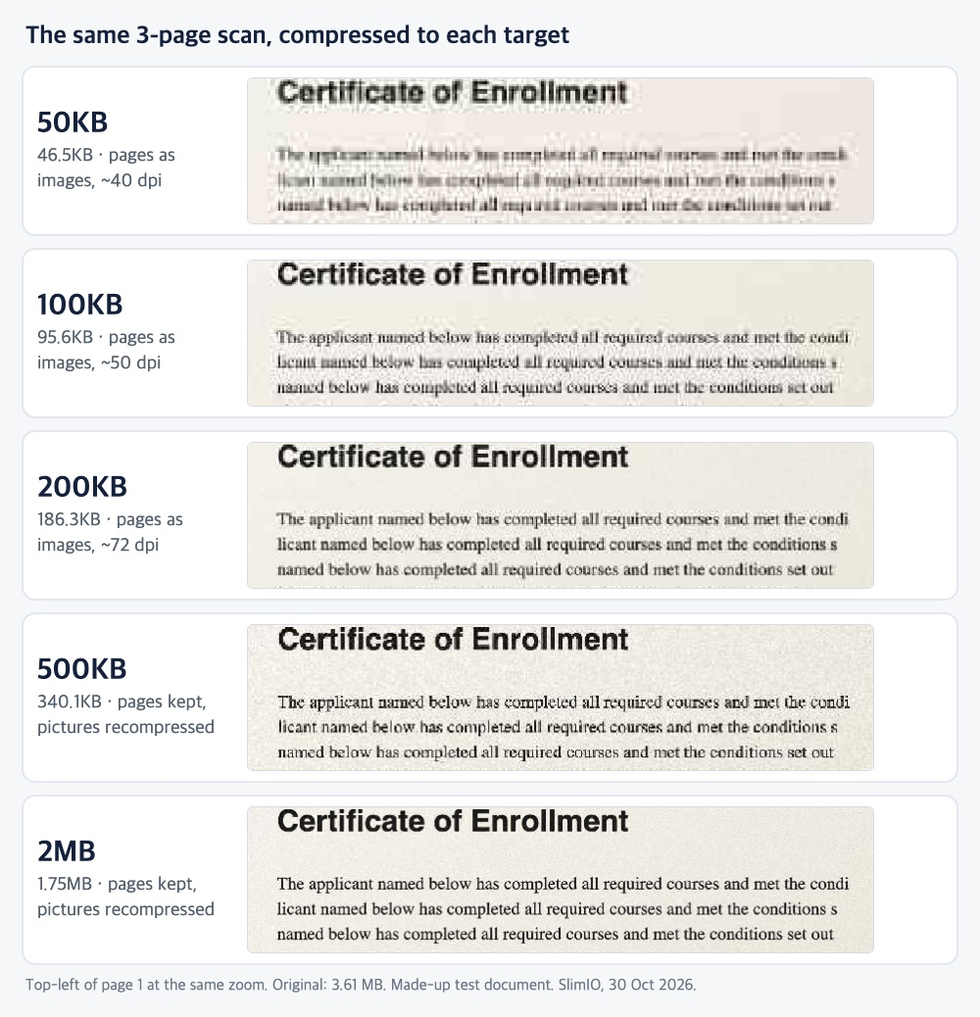
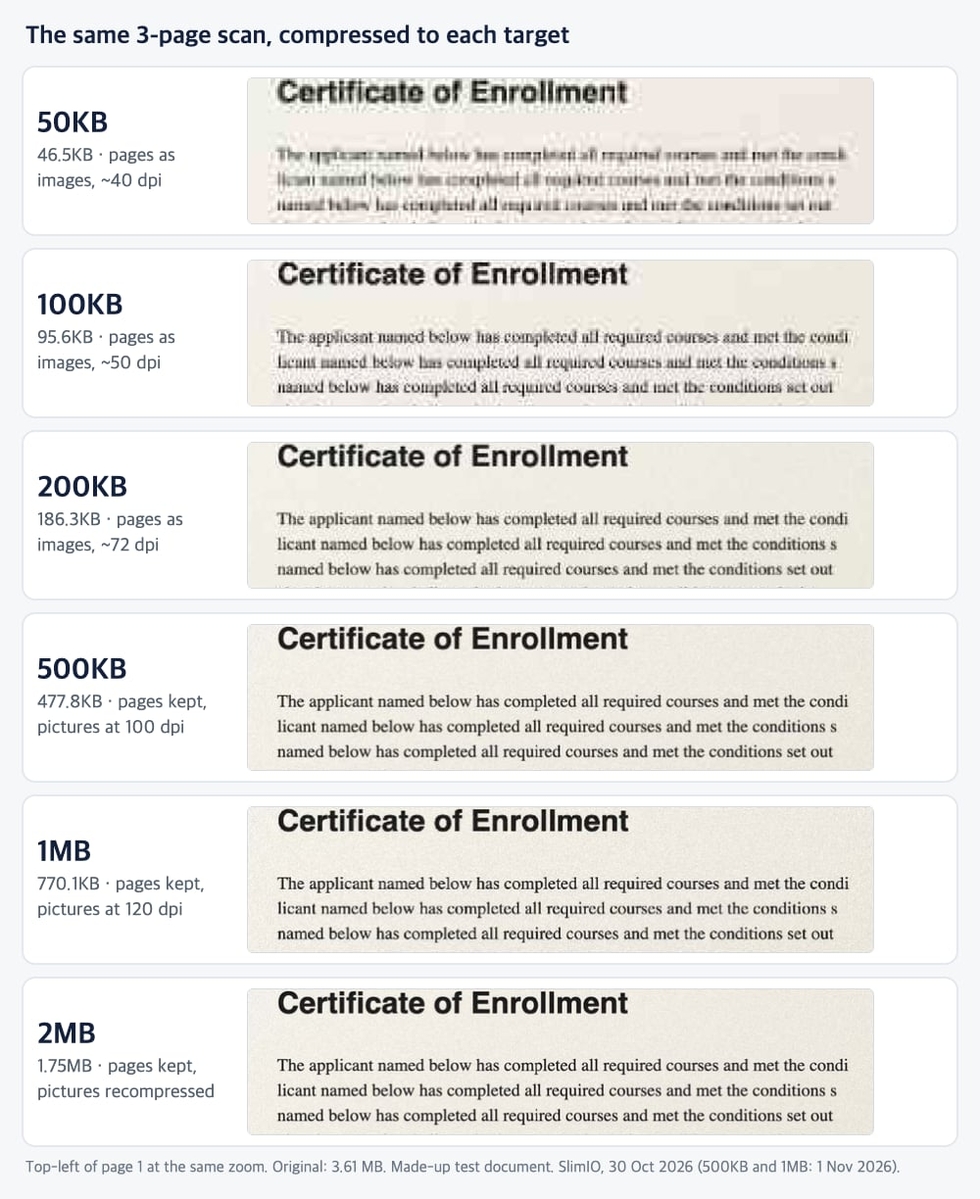
Size test, size pages, about: 500KB and 1MB measured again after the server steps fix
The same 3-page scan (3,781,587 bytes) through the real pages on the new server code:
500KB 340.1KB -> 477.8KB (pages kept, pictures at 100dpi), 1MB 751.6KB of page images ->
770.1KB (pages kept, 120dpi); 50KB-300KB and 2MB unchanged. measured.json rows can carry
their own date; the guide (en, ko) explains what changed on 1 November; size-compare.jpg
gets a 1MB row, crops scaled down from 200dpi renders. HANDOFF 4-1: what to measure on the
live site after the deploy (Tistory T20, T25, the mail guide).

diff --git a/public/ko/guides/pdf-size-test.html b/public/ko/guides/pdf-size-test.html
@@ -25,7 +25,7 @@
   "headline": "스캔 PDF 하나를 50KB·100KB·200KB·300KB·500KB·1MB·2MB로 줄여 봤어요: 용량마다 이렇게 달라요",
   "description": "휴대폰으로 스캔한 3쪽 PDF(3.61MB) 하나를 같은 도구로 일곱 가지 용량에 맞춰 봤어요. 50KB, 100KB, 200KB, 300KB, 500KB, 1MB, 2MB에서 결과 용량과 쪽이 어떻게 바뀌었는지, 글씨가 얼마나 읽히는지 정리했어요.",
   "datePublished": "2026-10-30",
-  "dateModified": "2026-10-30",
+  "dateModified": "2026-11-01",
   "inLanguage": "ko",
   "author": {
     "@type": "Organization",
@@ -85,7 +85,7 @@
       "name": "500KB 결과가 300KB 결과보다 선명했던 이유가 뭐예요?",
       "acceptedAnswer": {
         "@type": "Answer",
-        "text": "500KB에서는 도구가 3쪽을 그대로 두고 안의 그림만 다시 압축할 수 있어서(340.1KB) 해상도를 낮춘 쪽이 없어요. 300KB에서는 쪽을 약 90dpi 이미지로 바꿔야 했어요. 어느 방법이 쓰이는지는 파일마다 달라요."
+        "text": "500KB에서는 도구가 3쪽을 그대로 두고 안의 그림만 100dpi로 줄일 수 있어서(477.8KB) 이미지로 바꾼 쪽이 없어요. 300KB에서는 쪽을 약 90dpi 이미지로 바꿔야 했어요. 어느 방법이 쓰이는지는 파일마다 달라요."
       }
     },
     {
@@ -124,8 +124,8 @@
 <main class="content article">
       <p class="crumbs"><a href="/ko/">SlimIO</a> › <a href="/ko/guides/">가이드</a></p>
       <h1>스캔 PDF 하나를 50KB·100KB·200KB·300KB·500KB·1MB·2MB로 줄여 봤어요: 용량마다 이렇게 달라요</h1>
-      <p class="byline">SlimIO 작성 · 업데이트 <time datetime="2026-10-30">2026년 10월 30일</time> · 4 분 분량</p>
-<p>용량 제한은 숫자지만, 그 숫자에서 나오는 건 그림이에요. 그게 어떤 모습인지 보려고 가상의 서류 하나, <b>휴대폰으로 스캔한 모양의 3쪽 PDF(3.61MB)</b>를 2026년 10월 30일에 SlimIO의 크기 페이지마다 넣어 봤어요. 파일을 넣고, 줄이기를 누르고, 받는 과정 그대로예요. <b>50KB, 100KB, 200KB, 300KB, 500KB, 1MB, 2MB</b>에서 나온 결과를 정리했어요.</p>
+      <p class="byline">SlimIO 작성 · 업데이트 <time datetime="2026-11-01">2026년 11월 1일</time> · 4 분 분량</p>
+<p>용량 제한은 숫자지만, 그 숫자에서 나오는 건 그림이에요. 그게 어떤 모습인지 보려고 가상의 서류 하나, <b>휴대폰으로 스캔한 모양의 3쪽 PDF(3.61MB)</b>를 2026년 10월 30일에 SlimIO의 크기 페이지마다 넣어 봤어요. 파일을 넣고, 줄이기를 누르고, 받는 과정 그대로예요. <b>50KB, 100KB, 200KB, 300KB, 500KB, 1MB, 2MB</b>에서 나온 결과를 정리했어요. 500KB와 1MB는 도구가 용량을 맞추는 단계를 고친 뒤 2026년 11월 1일에 같은 파일로 다시 쟀어요(아래에 설명).</p>
       <p class="cta-top"><a class="cta-btn" href="/ko/" data-umami-event="guide-cta" data-umami-event-pos="top" data-umami-event-guide="ko/pdf-size-test">PDF 용량 줄이기 →</a><span>용량을 고르고 파일을 넣으면 받기 전에 결과 용량이 보여요. 무료, 회원가입 없어요.</span></p>
 
       <h2>한눈에 보는 결과</h2>
@@ -135,13 +135,13 @@
           <tr><td><b>100KB</b></td><td>95.6KB</td><td>31.9KB</td><td>쪽을 이미지로 바꿈, 약 50dpi</td><td>읽을 수 있지만 조금 흐림</td></tr>
           <tr><td><b>200KB</b></td><td>186.3KB</td><td>62.1KB</td><td>쪽을 이미지로 바꿈, 약 72dpi</td><td>선명</td></tr>
           <tr><td><b>300KB</b></td><td>280.2KB</td><td>93.4KB</td><td>쪽을 이미지로 바꿈, 약 90dpi</td><td>선명</td></tr>
-          <tr><td><b>500KB</b></td><td>340.1KB</td><td>113.4KB</td><td>쪽은 그대로, 안의 그림만 다시 압축</td><td>아주 선명</td></tr>
-          <tr><td><b>1MB</b></td><td>751.6KB</td><td>250.5KB</td><td>쪽을 이미지로 바꿈, 약 108dpi</td><td>읽을 수 있지만 가장자리가 거침</td></tr>
+          <tr><td><b>500KB</b></td><td>477.8KB</td><td>159.3KB</td><td>쪽은 그대로, 안의 그림만 100dpi로 다시 압축</td><td>아주 선명</td></tr>
+          <tr><td><b>1MB</b></td><td>770.1KB</td><td>256.7KB</td><td>쪽은 그대로, 안의 그림만 120dpi로 다시 압축</td><td>아주 선명</td></tr>
           <tr><td><b>2MB</b></td><td>1.75MB</td><td>0.58MB</td><td>쪽은 그대로, 안의 그림만 다시 압축</td><td>아주 선명</td></tr>
       </table></div>
       <figure>
-          <img src="/img/size-compare.jpg" width="1000" height="1038" loading="lazy" alt="같은 스캔을 50KB, 100KB, 200KB, 500KB, 2MB로 줄인 뒤 1쪽 왼쪽 위를 잘라 비교한 모습: 50KB는 글씨가 뭉개지고 100KB는 조금 흐리며 200KB 이상은 선명해요" />
-          <figcaption>같은 1쪽 부분을 다섯 가지 목표에서 잘라 본 모습이에요. 50KB는 본문이 번지고, 200KB부터는 선명해요. (그림 속 글씨는 영어예요.)</figcaption>
+          <img src="/img/size-compare.jpg" width="1000" height="1224" loading="lazy" alt="같은 스캔을 50KB, 100KB, 200KB, 500KB, 1MB, 2MB로 줄인 뒤 1쪽 왼쪽 위를 잘라 비교한 모습: 50KB는 글씨가 뭉개지고 100KB는 조금 흐리며 200KB 이상은 선명해요" />
+          <figcaption>같은 1쪽 부분을 여섯 가지 목표에서 잘라 본 모습이에요. 50KB는 본문이 번지고, 200KB부터는 선명해요. (그림 속 글씨는 영어예요.)</figcaption>
       </figure>
 
       <h2>숫자가 말해 주는 것</h2>
@@ -150,9 +150,9 @@
       <h3>100KB~300KB부터 스캔을 쓸 만해져요</h3>
       <p>100KB는 한 쪽에 32KB쯤이라 본문이 읽히지만 조금 흐렸어요. 200KB(한 쪽에 62KB)에서는 선명했고 300KB도 깨끗했어요. 서식이 몇 쪽을 받고 200KB 이상을 준다면 3쪽을 다 보내도 되고, 100KB가 한도라면 1~2쪽으로 줄이세요.</p>
       <h3>500KB부터는 쪽을 다시 만들지 않아요</h3>
-      <p>500KB와 2MB에서는 결과가 한도보다 작았어요. SlimIO가 쪽을 그대로 두고 안의 그림만 다시 압축할 수 있었기 때문이에요. 해상도를 낮춘 쪽이 없어서 300KB 결과보다 겨우 60KB 큰 파일인데도 더 선명했어요. 2MB 결과(1.75MB)는 원본의 절반쯤인데 눈에 띄는 손실이 없어요.</p>
-      <h3>1MB는 다른 길로 갔어요</h3>
-      <p>같은 파일이 1MB에서는 그 부드러운 방법을 타지 않았어요. 쪽을 약 108dpi 이미지로 바꿔서 751.6KB가 됐고, 글씨는 읽히지만 500KB 결과보다 조금 거칠어요. 나온 그대로 적었어요. 어떤 방법이 쓰일지는 파일마다 달라서, 줄이기 버튼 아래 결과 상자에 쪽을 그대로 뒀는지 이미지로 바꿨는지 항상 표시돼요.</p>
+      <p>500KB, 1MB, 2MB에서는 SlimIO가 쪽을 그대로 두고 안의 그림만 줄일 수 있었어요. 500KB에서는 100dpi, 1MB에서는 120dpi예요. 이미지로 바꾼 쪽이 없어서 300KB 결과보다 글씨가 깔끔하고, 한도가 클수록 스캔을 더 많이 살려요. 2MB 결과(1.75MB)는 원본의 절반쯤인데 눈에 띄는 손실이 없어요.</p>
+      <h3>11월 1일에 고친 것</h3>
+      <p>10월 30일 첫 시험에서 500KB는 340.1KB로 끝났어요. 그때 도구는 1MB보다 작은 목표에서 바로 72dpi로 줄여서, 100dpi도 들어가는데 글자 가장자리가 계단처럼 거칠었어요. 1MB에서는 반대였어요. 첫 단계에서 이 파일의 200dpi 그림이 그대로 남아 너무 컸고, 더 낮은 해상도를 해 보지 않고 쪽을 약 108dpi 이미지로 바꿔서 751.6KB가 됐어요. 그래서 1MB가 500KB보다 거칠었어요. 지금은 서버가 쪽을 이미지로 바꾸기 전에 150, 120, 100dpi를 차례로 해 보고, 위 표는 같은 파일을 다시 넣은 결과예요. 어떤 방법이 쓰일지는 여전히 파일마다 달라서, 줄이기 버튼 아래 결과 상자에 쪽을 그대로 뒀는지 이미지로 바꿨는지 항상 표시돼요.</p>
 
       <h2>내 스캔에 맞는 용량 고르기</h2>
       <p>'한 쪽당' 열은 대략의 기준일 뿐, 약속은 아니에요.</p>
@@ -166,7 +166,7 @@
       <h2>시험 방법과 한계</h2>
       <ul>
           <li><b>파일:</b> 제목, 본문 줄, 표, 도장, 고르지 않은 조명, 센서 잡티를 넣은 쪽 이미지 3장(각 약 1654×2339픽셀)을 PDF 하나(3,781,587바이트, 3.61MB)로 묶었어요. 가상의 서류라서 실제 사람의 서류는 쓰지 않았어요.</li>
-          <li><b>실행:</b> 크기 페이지마다 크롬에서 실제 도구를 열고, 파일을 넣고, 줄이기를 한 번 누르고, 받은 파일의 용량을 쟀어요. 용량은 도구가 보여 주는 방식대로 1KB=1,024바이트로 적었어요.</li>
+          <li><b>실행:</b> 크기 페이지마다 크롬에서 실제 도구를 열고, 파일을 넣고, 줄이기를 한 번 누르고, 받은 파일의 용량을 쟀어요. 용량은 도구가 보여 주는 방식대로 1KB=1,024바이트로 적었어요. 500KB와 1MB는 2026년 11월 1일, 나머지는 10월 30일 결과예요.</li>
           <li><b>글씨 상태:</b> 같은 배율로 1쪽을 눈으로 보고 판단했고, 위 그림에서 직접 확인할 수 있어요.</li>
           <li><b>한계:</b> 파일 하나, 하루치예요. 다른 스캔이나 이후 버전의 도구에서는 숫자가 달라질 수 있어요. 정확한 KB보다 패턴을 봐 주세요.</li>
       </ul>
@@ -188,7 +188,7 @@
       </details>
       <details>
           <summary>500KB 결과가 300KB 결과보다 선명했던 이유가 뭐예요?</summary>
-          <p>500KB에서는 도구가 3쪽을 그대로 두고 안의 그림만 다시 압축할 수 있어서(340.1KB) 해상도를 낮춘 쪽이 없어요. 300KB에서는 쪽을 약 90dpi 이미지로 바꿔야 했어요. 어느 방법이 쓰이는지는 파일마다 달라요.</p>
+          <p>500KB에서는 도구가 3쪽을 그대로 두고 안의 그림만 100dpi로 줄일 수 있어서(477.8KB) 이미지로 바꾼 쪽이 없어요. 300KB에서는 쪽을 약 90dpi 이미지로 바꿔야 했어요. 어느 방법이 쓰이는지는 파일마다 달라요.</p>
       </details>
       <details>
           <summary>글씨로 만든 PDF도 같은가요?</summary>

diff --git a/public/guides/pdf-size-test.html b/public/guides/pdf-size-test.html
@@ -25,7 +25,7 @@
   "headline": "We compressed one scanned PDF to 50KB, 100KB, 200KB, 300KB, 500KB, 1MB and 2MB: what each size does",
   "description": "One 3-page phone-scan PDF (3.61 MB) run through seven size limits with the same tool. The result size, how the pages were rebuilt, and how readable the text stayed at 50KB, 100KB, 200KB, 300KB, 500KB, 1MB and 2MB.",
   "datePublished": "2026-10-30",
-  "dateModified": "2026-10-30",
+  "dateModified": "2026-11-01",
   "inLanguage": "en",
   "author": {
     "@type": "Organization",
@@ -85,7 +85,7 @@
       "name": "Why was the 500KB result sharper than the 300KB one?",
       "acceptedAnswer": {
         "@type": "Answer",
-        "text": "At 500KB the tool could keep the three pages as they were and only recompress the pictures inside (340.1 KB), so no page was rebuilt at a lower resolution. At 300KB it had to turn the pages into images at about 90 dpi. Which route a file takes depends on the file."
+        "text": "At 500KB the tool could keep the three pages as they were and only bring the pictures inside down to 100 dpi (477.8 KB), so no page was turned into an image. At 300KB it had to turn the pages into images at about 90 dpi. Which route a file takes depends on the file."
       }
     },
     {
@@ -124,8 +124,8 @@
 <main class="content article">
       <p class="crumbs"><a href="/">SlimIO</a> › <a href="/guides/">Guides</a></p>
       <h1>We compressed one scanned PDF to 50KB, 100KB, 200KB, 300KB, 500KB, 1MB and 2MB: what each size does</h1>
-      <p class="byline">By SlimIO · Updated <time datetime="2026-10-30">October 30, 2026</time> · 4 min read</p>
-<p>Every size limit sounds like a number, but what you get at that number is a picture. To see it, we took one made-up document, a <b>3-page phone-scan style PDF of 3.61 MB</b>, and ran it through each of SlimIO's size pages on 30 October 2026, the same way you would: drop the file in, click Compress, download. This page shows what came out at <b>50KB, 100KB, 200KB, 300KB, 500KB, 1MB and 2MB</b>.</p>
+      <p class="byline">By SlimIO · Updated <time datetime="2026-11-01">November 1, 2026</time> · 4 min read</p>
+<p>Every size limit sounds like a number, but what you get at that number is a picture. To see it, we took one made-up document, a <b>3-page phone-scan style PDF of 3.61 MB</b>, and ran it through each of SlimIO's size pages on 30 October 2026, the same way you would: drop the file in, click Compress, download. This page shows what came out at <b>50KB, 100KB, 200KB, 300KB, 500KB, 1MB and 2MB</b>. The 500KB and 1MB rows were measured again with the same file on 1 November 2026, after we fixed how the tool steps down (see below).</p>
       <p class="cta-top"><a class="cta-btn" href="/" data-umami-event="guide-cta" data-umami-event-pos="top" data-umami-event-guide="pdf-size-test">Compress your PDF →</a><span>Pick a size, drop the file in and see the result size before you download. Free, no signup.</span></p>
 
       <h2>The results at a glance</h2>
@@ -135,13 +135,13 @@
           <tr><td><b>100KB</b></td><td>95.6 KB</td><td>31.9 KB</td><td>Pages turned into images, about 50 dpi</td><td>Readable, a little soft</td></tr>
           <tr><td><b>200KB</b></td><td>186.3 KB</td><td>62.1 KB</td><td>Pages turned into images, about 72 dpi</td><td>Clear</td></tr>
           <tr><td><b>300KB</b></td><td>280.2 KB</td><td>93.4 KB</td><td>Pages turned into images, about 90 dpi</td><td>Clear</td></tr>
-          <tr><td><b>500KB</b></td><td>340.1 KB</td><td>113.4 KB</td><td>Pages kept, pictures recompressed</td><td>Sharp</td></tr>
-          <tr><td><b>1MB</b></td><td>751.6 KB</td><td>250.5 KB</td><td>Pages turned into images, about 108 dpi</td><td>Readable, slightly rough</td></tr>
+          <tr><td><b>500KB</b></td><td>477.8 KB</td><td>159.3 KB</td><td>Pages kept, pictures recompressed at 100 dpi</td><td>Sharp</td></tr>
+          <tr><td><b>1MB</b></td><td>770.1 KB</td><td>256.7 KB</td><td>Pages kept, pictures recompressed at 120 dpi</td><td>Sharp</td></tr>
           <tr><td><b>2MB</b></td><td>1.75 MB</td><td>0.58 MB</td><td>Pages kept, pictures recompressed</td><td>Sharp</td></tr>
       </table></div>
       <figure>
-          <img src="/img/size-compare.jpg" width="1000" height="1038" loading="lazy" alt="The top-left of page 1 of the same scan after compressing to 50KB, 100KB, 200KB, 500KB and 2MB: the 50KB text is blurred, 100KB is soft, and 200KB and above are clear" />
-          <figcaption>The same crop of page 1 at five of the targets. The 50KB body text is smudged; from 200KB it is clear.</figcaption>
+          <img src="/img/size-compare.jpg" width="1000" height="1224" loading="lazy" alt="The top-left of page 1 of the same scan after compressing to 50KB, 100KB, 200KB, 500KB, 1MB and 2MB: the 50KB text is blurred, 100KB is soft, and 200KB and above are clear" />
+          <figcaption>The same crop of page 1 at six of the targets. The 50KB body text is smudged; from 200KB it is clear.</figcaption>
       </figure>
 
       <h2>What the numbers say</h2>
@@ -149,10 +149,10 @@
       <p>At 50KB the three pages share 46.5 KB, so each gets about 15 KB. To fit, SlimIO turned every page into an image at about 40 dpi. The large heading survived, but the paragraph text smudged into grey strokes, and because the pages are now pictures, the text can no longer be selected or searched. This is why the 50KB page tells you to keep only the page the form needs: one page gets the whole 50KB.</p>
       <h3>100KB to 300KB is where scans become usable</h3>
       <p>With 32 KB a page the text at 100KB was readable but soft. At 200KB (62 KB a page) it was clear, and at 300KB it stayed clean. If a form accepts a few pages and gives you 200KB or more, you can send all three. If it caps you at 100KB, send one or two.</p>
-      <h3>Past 500KB the tool stops rebuilding the pages</h3>
-      <p>At 500KB and 2MB the result was smaller than the limit, because SlimIO could keep the pages exactly as they were and recompress only the pictures inside them. Nothing was rendered at a lower resolution, and the text looked sharper than at 300KB even though the file was only 60 KB bigger. The 2MB result, 1.75 MB, is about half the original with no visible loss.</p>
-      <h3>The 1MB result took the other route</h3>
-      <p>The same file at 1MB did not take that gentle route. The pages were turned into images at about 108 dpi, giving 751.6 KB, and the text, while readable, is a little rougher than the 500KB result. We report it as it came out. Which route a file takes depends on the file, and the result box under the button always says whether the pages were kept or turned into images.</p>
+      <h3>From 500KB the tool stops rebuilding the pages</h3>
+      <p>At 500KB, 1MB and 2MB SlimIO could keep the pages exactly as they were and shrink only the pictures inside them: to 100 dpi at 500KB, to 120 dpi at 1MB. No page was turned into an image, so the text is cleaner than at 300KB, and the bigger the limit, the more of the scan it keeps. The 2MB result, 1.75 MB, is about half the original with no visible loss.</p>
+      <h3>What we fixed on 1 November</h3>
+      <p>In the first run on 30 October, 500KB came out at 340.1 KB: below 1MB the tool went straight to 72 dpi, so the letters got blocky edges although 100 dpi would have fit. At 1MB it went the other way. Its first step left this file's 200 dpi pictures as they were, the result was too big, and the tool turned the pages into images at about 108 dpi (751.6 KB) without trying a lower resolution first, so 1MB came out rougher than 500KB. Now the server tries 150, 120 and 100 dpi before it turns pages into images, and the table above shows the same file run again. Which route a file takes still depends on the file, and the result box under the button always says whether the pages were kept or turned into images.</p>
 
       <h2>Picking a size for your own scan</h2>
       <p>Use the per-page column as a rough rule, not a promise:</p>
@@ -166,7 +166,7 @@
       <h2>How we ran the test, and its limits</h2>
       <ul>
           <li><b>The file:</b> three page images (about 1654 × 2339 pixels each, with a printed heading, text lines, a table, a stamp, uneven lighting and sensor-style noise) built into one PDF of 3,781,587 bytes (3.61 MB). The document is made up, so no real person's papers were involved.</li>
-          <li><b>The run:</b> each size page opened in Chrome against the live tool, the file added, Compress clicked once, the download measured. Sizes are shown the way the tool shows them, in KB of 1,024 bytes.</li>
+          <li><b>The run:</b> each size page opened in Chrome against the live tool, the file added, Compress clicked once, the download measured. Sizes are shown the way the tool shows them, in KB of 1,024 bytes. The 500KB and 1MB rows are from 1 November 2026, the rest from 30 October.</li>
           <li><b>How readable:</b> judged by eye on the first page, at the same zoom, as shown in the picture.</li>
           <li><b>What it is not:</b> one file, one day. A different scan, or a later version of the tool, can give different numbers. Treat the pattern as the finding, not the exact kilobytes.</li>
       </ul>
@@ -188,7 +188,7 @@
       </details>
       <details>
           <summary>Why was the 500KB result sharper than the 300KB one?</summary>
-          <p>At 500KB the tool could keep the three pages as they were and only recompress the pictures inside (340.1 KB), so no page was rebuilt at a lower resolution. At 300KB it had to turn the pages into images at about 90 dpi. Which route a file takes depends on the file.</p>
+          <p>At 500KB the tool could keep the three pages as they were and only bring the pictures inside down to 100 dpi (477.8 KB), so no page was turned into an image. At 300KB it had to turn the pages into images at about 90 dpi. Which route a file takes depends on the file.</p>
       </details>
       <details>
           <summary>Does a text PDF behave the same way?</summary>

diff --git a/content/guides/ko/pdf-size-test.html b/content/guides/ko/pdf-size-test.html
@@ -2,16 +2,16 @@
 {"title": "스캔 PDF 하나를 50KB·100KB·200KB·300KB·500KB·1MB·2MB로 줄여 봤어요: 용량마다 이렇게 달라요",
  "seo_title": "PDF 50KB·100KB·200KB·500KB·1MB로 줄이면? 같은 파일로 직접 비교",
  "desc": "휴대폰으로 스캔한 3쪽 PDF(3.61MB) 하나를 같은 도구로 일곱 가지 용량에 맞춰 봤어요. 50KB, 100KB, 200KB, 300KB, 500KB, 1MB, 2MB에서 결과 용량과 쪽이 어떻게 바뀌었는지, 글씨가 얼마나 읽히는지 정리했어요.",
- "topic": "pdf", "published": "2026-10-30", "updated": "2026-10-30", "image": "/img/size-compare.jpg",
+ "topic": "pdf", "published": "2026-10-30", "updated": "2026-11-01", "image": "/img/size-compare.jpg",
  "cta": ["/ko/", "PDF 용량 줄이기", "용량을 고르고 파일을 넣으면 받기 전에 결과 용량이 보여요. 무료, 회원가입 없어요."],
  "faq": [
   ["스캔한 서류 몇 쪽이 100KB에 들어가나요?", "이번 시험에서 100KB는 3쪽이 한 쪽에 약 32KB, 약 50dpi가 됐어요. 본문은 읽히지만 조금 흐렸어요. 1~2쪽이면 100KB도 여유 있고, 3쪽부터는 작은 글씨가 흐려지기 시작해요."],
-  ["500KB 결과가 300KB 결과보다 선명했던 이유가 뭐예요?", "500KB에서는 도구가 3쪽을 그대로 두고 안의 그림만 다시 압축할 수 있어서(340.1KB) 해상도를 낮춘 쪽이 없어요. 300KB에서는 쪽을 약 90dpi 이미지로 바꿔야 했어요. 어느 방법이 쓰이는지는 파일마다 달라요."],
+  ["500KB 결과가 300KB 결과보다 선명했던 이유가 뭐예요?", "500KB에서는 도구가 3쪽을 그대로 두고 안의 그림만 100dpi로 줄일 수 있어서(477.8KB) 이미지로 바꾼 쪽이 없어요. 300KB에서는 쪽을 약 90dpi 이미지로 바꿔야 했어요. 어느 방법이 쓰이는지는 파일마다 달라요."],
   ["글씨로 만든 PDF도 같은가요?", "똑같지는 않아요. 워드로 만든 PDF는 글자가 문자로 저장돼서 선명하고 선택도 되고 처음부터 아주 작아요. 이번 시험은 쪽마다 사진인 스캔 파일이라 가장 어려운 경우예요."],
   ["내 파일도 같은 숫자가 나오나요?", "아니에요. 숫자는 가상의 서류 하나의 결과예요. 사진이나 그림자, 컬러가 있는 스캔은 더 큰 용량이 필요해요. 볼 것은 패턴이에요. 한 쪽에 15KB쯤이면 뭉개지고, 30KB쯤이면 조금 흐리고, 60KB 넘으면 선명했어요."]
  ]}
 -->
-      <p>용량 제한은 숫자지만, 그 숫자에서 나오는 건 그림이에요. 그게 어떤 모습인지 보려고 가상의 서류 하나, <b>휴대폰으로 스캔한 모양의 3쪽 PDF(3.61MB)</b>를 2026년 10월 30일에 SlimIO의 크기 페이지마다 넣어 봤어요. 파일을 넣고, 줄이기를 누르고, 받는 과정 그대로예요. <b>50KB, 100KB, 200KB, 300KB, 500KB, 1MB, 2MB</b>에서 나온 결과를 정리했어요.</p>
+      <p>용량 제한은 숫자지만, 그 숫자에서 나오는 건 그림이에요. 그게 어떤 모습인지 보려고 가상의 서류 하나, <b>휴대폰으로 스캔한 모양의 3쪽 PDF(3.61MB)</b>를 2026년 10월 30일에 SlimIO의 크기 페이지마다 넣어 봤어요. 파일을 넣고, 줄이기를 누르고, 받는 과정 그대로예요. <b>50KB, 100KB, 200KB, 300KB, 500KB, 1MB, 2MB</b>에서 나온 결과를 정리했어요. 500KB와 1MB는 도구가 용량을 맞추는 단계를 고친 뒤 2026년 11월 1일에 같은 파일로 다시 쟀어요(아래에 설명).</p>
 
       <h2>한눈에 보는 결과</h2>
       <div class="table-wrap"><table>
@@ -20,13 +20,13 @@
           <tr><td><b>100KB</b></td><td>95.6KB</td><td>31.9KB</td><td>쪽을 이미지로 바꿈, 약 50dpi</td><td>읽을 수 있지만 조금 흐림</td></tr>
           <tr><td><b>200KB</b></td><td>186.3KB</td><td>62.1KB</td><td>쪽을 이미지로 바꿈, 약 72dpi</td><td>선명</td></tr>
           <tr><td><b>300KB</b></td><td>280.2KB</td><td>93.4KB</td><td>쪽을 이미지로 바꿈, 약 90dpi</td><td>선명</td></tr>
-          <tr><td><b>500KB</b></td><td>340.1KB</td><td>113.4KB</td><td>쪽은 그대로, 안의 그림만 다시 압축</td><td>아주 선명</td></tr>
-          <tr><td><b>1MB</b></td><td>751.6KB</td><td>250.5KB</td><td>쪽을 이미지로 바꿈, 약 108dpi</td><td>읽을 수 있지만 가장자리가 거침</td></tr>
+          <tr><td><b>500KB</b></td><td>477.8KB</td><td>159.3KB</td><td>쪽은 그대로, 안의 그림만 100dpi로 다시 압축</td><td>아주 선명</td></tr>
+          <tr><td><b>1MB</b></td><td>770.1KB</td><td>256.7KB</td><td>쪽은 그대로, 안의 그림만 120dpi로 다시 압축</td><td>아주 선명</td></tr>
           <tr><td><b>2MB</b></td><td>1.75MB</td><td>0.58MB</td><td>쪽은 그대로, 안의 그림만 다시 압축</td><td>아주 선명</td></tr>
       </table></div>
       <figure>
-          <img src="/img/size-compare.jpg" width="1000" height="1038" loading="lazy" alt="같은 스캔을 50KB, 100KB, 200KB, 500KB, 2MB로 줄인 뒤 1쪽 왼쪽 위를 잘라 비교한 모습: 50KB는 글씨가 뭉개지고 100KB는 조금 흐리며 200KB 이상은 선명해요" />
-          <figcaption>같은 1쪽 부분을 다섯 가지 목표에서 잘라 본 모습이에요. 50KB는 본문이 번지고, 200KB부터는 선명해요. (그림 속 글씨는 영어예요.)</figcaption>
+          <img src="/img/size-compare.jpg" width="1000" height="1224" loading="lazy" alt="같은 스캔을 50KB, 100KB, 200KB, 500KB, 1MB, 2MB로 줄인 뒤 1쪽 왼쪽 위를 잘라 비교한 모습: 50KB는 글씨가 뭉개지고 100KB는 조금 흐리며 200KB 이상은 선명해요" />
+          <figcaption>같은 1쪽 부분을 여섯 가지 목표에서 잘라 본 모습이에요. 50KB는 본문이 번지고, 200KB부터는 선명해요. (그림 속 글씨는 영어예요.)</figcaption>
       </figure>
 
       <h2>숫자가 말해 주는 것</h2>
@@ -35,9 +35,9 @@
       <h3>100KB~300KB부터 스캔을 쓸 만해져요</h3>
       <p>100KB는 한 쪽에 32KB쯤이라 본문이 읽히지만 조금 흐렸어요. 200KB(한 쪽에 62KB)에서는 선명했고 300KB도 깨끗했어요. 서식이 몇 쪽을 받고 200KB 이상을 준다면 3쪽을 다 보내도 되고, 100KB가 한도라면 1~2쪽으로 줄이세요.</p>
       <h3>500KB부터는 쪽을 다시 만들지 않아요</h3>
-      <p>500KB와 2MB에서는 결과가 한도보다 작았어요. SlimIO가 쪽을 그대로 두고 안의 그림만 다시 압축할 수 있었기 때문이에요. 해상도를 낮춘 쪽이 없어서 300KB 결과보다 겨우 60KB 큰 파일인데도 더 선명했어요. 2MB 결과(1.75MB)는 원본의 절반쯤인데 눈에 띄는 손실이 없어요.</p>
-      <h3>1MB는 다른 길로 갔어요</h3>
-      <p>같은 파일이 1MB에서는 그 부드러운 방법을 타지 않았어요. 쪽을 약 108dpi 이미지로 바꿔서 751.6KB가 됐고, 글씨는 읽히지만 500KB 결과보다 조금 거칠어요. 나온 그대로 적었어요. 어떤 방법이 쓰일지는 파일마다 달라서, 줄이기 버튼 아래 결과 상자에 쪽을 그대로 뒀는지 이미지로 바꿨는지 항상 표시돼요.</p>
+      <p>500KB, 1MB, 2MB에서는 SlimIO가 쪽을 그대로 두고 안의 그림만 줄일 수 있었어요. 500KB에서는 100dpi, 1MB에서는 120dpi예요. 이미지로 바꾼 쪽이 없어서 300KB 결과보다 글씨가 깔끔하고, 한도가 클수록 스캔을 더 많이 살려요. 2MB 결과(1.75MB)는 원본의 절반쯤인데 눈에 띄는 손실이 없어요.</p>
+      <h3>11월 1일에 고친 것</h3>
+      <p>10월 30일 첫 시험에서 500KB는 340.1KB로 끝났어요. 그때 도구는 1MB보다 작은 목표에서 바로 72dpi로 줄여서, 100dpi도 들어가는데 글자 가장자리가 계단처럼 거칠었어요. 1MB에서는 반대였어요. 첫 단계에서 이 파일의 200dpi 그림이 그대로 남아 너무 컸고, 더 낮은 해상도를 해 보지 않고 쪽을 약 108dpi 이미지로 바꿔서 751.6KB가 됐어요. 그래서 1MB가 500KB보다 거칠었어요. 지금은 서버가 쪽을 이미지로 바꾸기 전에 150, 120, 100dpi를 차례로 해 보고, 위 표는 같은 파일을 다시 넣은 결과예요. 어떤 방법이 쓰일지는 여전히 파일마다 달라서, 줄이기 버튼 아래 결과 상자에 쪽을 그대로 뒀는지 이미지로 바꿨는지 항상 표시돼요.</p>
 
       <h2>내 스캔에 맞는 용량 고르기</h2>
       <p>'한 쪽당' 열은 대략의 기준일 뿐, 약속은 아니에요.</p>
@@ -51,7 +51,7 @@
       <h2>시험 방법과 한계</h2>
       <ul>
           <li><b>파일:</b> 제목, 본문 줄, 표, 도장, 고르지 않은 조명, 센서 잡티를 넣은 쪽 이미지 3장(각 약 1654×2339픽셀)을 PDF 하나(3,781,587바이트, 3.61MB)로 묶었어요. 가상의 서류라서 실제 사람의 서류는 쓰지 않았어요.</li>
-          <li><b>실행:</b> 크기 페이지마다 크롬에서 실제 도구를 열고, 파일을 넣고, 줄이기를 한 번 누르고, 받은 파일의 용량을 쟀어요. 용량은 도구가 보여 주는 방식대로 1KB=1,024바이트로 적었어요.</li>
+          <li><b>실행:</b> 크기 페이지마다 크롬에서 실제 도구를 열고, 파일을 넣고, 줄이기를 한 번 누르고, 받은 파일의 용량을 쟀어요. 용량은 도구가 보여 주는 방식대로 1KB=1,024바이트로 적었어요. 500KB와 1MB는 2026년 11월 1일, 나머지는 10월 30일 결과예요.</li>
           <li><b>글씨 상태:</b> 같은 배율로 1쪽을 눈으로 보고 판단했고, 위 그림에서 직접 확인할 수 있어요.</li>
           <li><b>한계:</b> 파일 하나, 하루치예요. 다른 스캔이나 이후 버전의 도구에서는 숫자가 달라질 수 있어요. 정확한 KB보다 패턴을 봐 주세요.</li>
       </ul>

diff --git a/content/guides/en/pdf-size-test.html b/content/guides/en/pdf-size-test.html
@@ -2,16 +2,16 @@
 {"title": "We compressed one scanned PDF to 50KB, 100KB, 200KB, 300KB, 500KB, 1MB and 2MB: what each size does",
  "seo_title": "PDF to 50KB, 100KB, 200KB, 500KB, 1MB: We Tested What Each Size Does",
  "desc": "One 3-page phone-scan PDF (3.61 MB) run through seven size limits with the same tool. The result size, how the pages were rebuilt, and how readable the text stayed at 50KB, 100KB, 200KB, 300KB, 500KB, 1MB and 2MB.",
- "topic": "pdf", "published": "2026-10-30", "updated": "2026-10-30", "image": "/img/size-compare.jpg",
+ "topic": "pdf", "published": "2026-10-30", "updated": "2026-11-01", "image": "/img/size-compare.jpg",
  "cta": ["/", "Compress your PDF", "Pick a size, drop the file in and see the result size before you download. Free, no signup."],
  "faq": [
   ["How many scanned pages fit in 100KB?", "In our test, 100KB gave about 32 KB per page for three pages, at roughly 50 dpi. The body text was readable but soft. One or two pages are comfortable at 100KB; three start to lose small print."],
-  ["Why was the 500KB result sharper than the 300KB one?", "At 500KB the tool could keep the three pages as they were and only recompress the pictures inside (340.1 KB), so no page was rebuilt at a lower resolution. At 300KB it had to turn the pages into images at about 90 dpi. Which route a file takes depends on the file."],
+  ["Why was the 500KB result sharper than the 300KB one?", "At 500KB the tool could keep the three pages as they were and only bring the pictures inside down to 100 dpi (477.8 KB), so no page was turned into an image. At 300KB it had to turn the pages into images at about 90 dpi. Which route a file takes depends on the file."],
   ["Does a text PDF behave the same way?", "Not exactly. A PDF made in Word keeps its text as characters, which stay sharp and selectable and are tiny to begin with. This test used a scan, where every page is a picture, which is the hard case."],
   ["Will my own file give the same numbers?", "No. The numbers belong to one made-up document. A scan with photos, shadows or colour needs more room. The point of the test is the pattern: about 15 KB a page is the floor for blurry, about 30 KB for soft, and above 60 KB a page the text is clear."]
  ]}
 -->
-      <p>Every size limit sounds like a number, but what you get at that number is a picture. To see it, we took one made-up document, a <b>3-page phone-scan style PDF of 3.61 MB</b>, and ran it through each of SlimIO's size pages on 30 October 2026, the same way you would: drop the file in, click Compress, download. This page shows what came out at <b>50KB, 100KB, 200KB, 300KB, 500KB, 1MB and 2MB</b>.</p>
+      <p>Every size limit sounds like a number, but what you get at that number is a picture. To see it, we took one made-up document, a <b>3-page phone-scan style PDF of 3.61 MB</b>, and ran it through each of SlimIO's size pages on 30 October 2026, the same way you would: drop the file in, click Compress, download. This page shows what came out at <b>50KB, 100KB, 200KB, 300KB, 500KB, 1MB and 2MB</b>. The 500KB and 1MB rows were measured again with the same file on 1 November 2026, after we fixed how the tool steps down (see below).</p>
 
       <h2>The results at a glance</h2>
       <div class="table-wrap"><table>
@@ -20,13 +20,13 @@
           <tr><td><b>100KB</b></td><td>95.6 KB</td><td>31.9 KB</td><td>Pages turned into images, about 50 dpi</td><td>Readable, a little soft</td></tr>
           <tr><td><b>200KB</b></td><td>186.3 KB</td><td>62.1 KB</td><td>Pages turned into images, about 72 dpi</td><td>Clear</td></tr>
           <tr><td><b>300KB</b></td><td>280.2 KB</td><td>93.4 KB</td><td>Pages turned into images, about 90 dpi</td><td>Clear</td></tr>
-          <tr><td><b>500KB</b></td><td>340.1 KB</td><td>113.4 KB</td><td>Pages kept, pictures recompressed</td><td>Sharp</td></tr>
-          <tr><td><b>1MB</b></td><td>751.6 KB</td><td>250.5 KB</td><td>Pages turned into images, about 108 dpi</td><td>Readable, slightly rough</td></tr>
+          <tr><td><b>500KB</b></td><td>477.8 KB</td><td>159.3 KB</td><td>Pages kept, pictures recompressed at 100 dpi</td><td>Sharp</td></tr>
+          <tr><td><b>1MB</b></td><td>770.1 KB</td><td>256.7 KB</td><td>Pages kept, pictures recompressed at 120 dpi</td><td>Sharp</td></tr>
           <tr><td><b>2MB</b></td><td>1.75 MB</td><td>0.58 MB</td><td>Pages kept, pictures recompressed</td><td>Sharp</td></tr>
       </table></div>
       <figure>
-          <img src="/img/size-compare.jpg" width="1000" height="1038" loading="lazy" alt="The top-left of page 1 of the same scan after compressing to 50KB, 100KB, 200KB, 500KB and 2MB: the 50KB text is blurred, 100KB is soft, and 200KB and above are clear" />
-          <figcaption>The same crop of page 1 at five of the targets. The 50KB body text is smudged; from 200KB it is clear.</figcaption>
+          <img src="/img/size-compare.jpg" width="1000" height="1224" loading="lazy" alt="The top-left of page 1 of the same scan after compressing to 50KB, 100KB, 200KB, 500KB, 1MB and 2MB: the 50KB text is blurred, 100KB is soft, and 200KB and above are clear" />
+          <figcaption>The same crop of page 1 at six of the targets. The 50KB body text is smudged; from 200KB it is clear.</figcaption>
       </figure>
 
       <h2>What the numbers say</h2>
@@ -34,10 +34,10 @@
       <p>At 50KB the three pages share 46.5 KB, so each gets about 15 KB. To fit, SlimIO turned every page into an image at about 40 dpi. The large heading survived, but the paragraph text smudged into grey strokes, and because the pages are now pictures, the text can no longer be selected or searched. This is why the 50KB page tells you to keep only the page the form needs: one page gets the whole 50KB.</p>
       <h3>100KB to 300KB is where scans become usable</h3>
       <p>With 32 KB a page the text at 100KB was readable but soft. At 200KB (62 KB a page) it was clear, and at 300KB it stayed clean. If a form accepts a few pages and gives you 200KB or more, you can send all three. If it caps you at 100KB, send one or two.</p>
-      <h3>Past 500KB the tool stops rebuilding the pages</h3>
-      <p>At 500KB and 2MB the result was smaller than the limit, because SlimIO could keep the pages exactly as they were and recompress only the pictures inside them. Nothing was rendered at a lower resolution, and the text looked sharper than at 300KB even though the file was only 60 KB bigger. The 2MB result, 1.75 MB, is about half the original with no visible loss.</p>
-      <h3>The 1MB result took the other route</h3>
-      <p>The same file at 1MB did not take that gentle route. The pages were turned into images at about 108 dpi, giving 751.6 KB, and the text, while readable, is a little rougher than the 500KB result. We report it as it came out. Which route a file takes depends on the file, and the result box under the button always says whether the pages were kept or turned into images.</p>
+      <h3>From 500KB the tool stops rebuilding the pages</h3>
+      <p>At 500KB, 1MB and 2MB SlimIO could keep the pages exactly as they were and shrink only the pictures inside them: to 100 dpi at 500KB, to 120 dpi at 1MB. No page was turned into an image, so the text is cleaner than at 300KB, and the bigger the limit, the more of the scan it keeps. The 2MB result, 1.75 MB, is about half the original with no visible loss.</p>
+      <h3>What we fixed on 1 November</h3>
+      <p>In the first run on 30 October, 500KB came out at 340.1 KB: below 1MB the tool went straight to 72 dpi, so the letters got blocky edges although 100 dpi would have fit. At 1MB it went the other way. Its first step left this file's 200 dpi pictures as they were, the result was too big, and the tool turned the pages into images at about 108 dpi (751.6 KB) without trying a lower resolution first, so 1MB came out rougher than 500KB. Now the server tries 150, 120 and 100 dpi before it turns pages into images, and the table above shows the same file run again. Which route a file takes still depends on the file, and the result box under the button always says whether the pages were kept or turned into images.</p>
 
       <h2>Picking a size for your own scan</h2>
       <p>Use the per-page column as a rough rule, not a promise:</p>
@@ -51,7 +51,7 @@
       <h2>How we ran the test, and its limits</h2>
       <ul>
           <li><b>The file:</b> three page images (about 1654 × 2339 pixels each, with a printed heading, text lines, a table, a stamp, uneven lighting and sensor-style noise) built into one PDF of 3,781,587 bytes (3.61 MB). The document is made up, so no real person's papers were involved.</li>
-          <li><b>The run:</b> each size page opened in Chrome against the live tool, the file added, Compress clicked once, the download measured. Sizes are shown the way the tool shows them, in KB of 1,024 bytes.</li>
+          <li><b>The run:</b> each size page opened in Chrome against the live tool, the file added, Compress clicked once, the download measured. Sizes are shown the way the tool shows them, in KB of 1,024 bytes. The 500KB and 1MB rows are from 1 November 2026, the rest from 30 October.</li>
           <li><b>How readable:</b> judged by eye on the first page, at the same zoom, as shown in the picture.</li>
           <li><b>What it is not:</b> one file, one day. A different scan, or a later version of the tool, can give different numbers. Treat the pattern as the finding, not the exact kilobytes.</li>
       </ul>

diff --git a/public/ko/guides/index.html b/public/ko/guides/index.html
@@ -159,7 +159,7 @@
       <h1>가이드</h1>
       <p class="lead">원서·서류 제출에서 막히는 사진, 서명, PDF 규격을 공식 기준과 함께 정리했어요.</p>
       <div class="guide-list">
-          <a class="guide-card" href="/ko/guides/pdf-size-test.html"><b>스캔 PDF 하나를 50KB·100KB·200KB·300KB·500KB·1MB·2MB로 줄여 봤어요: 용량마다 이렇게 달라요</b><small>휴대폰으로 스캔한 3쪽 PDF(3.61MB) 하나를 같은 도구로 일곱 가지 용량에 맞춰 봤어요. 50KB, 100KB, 200KB, 300KB, 500KB, 1MB, 2MB에서 결과 용량과 쪽이 어떻게 바뀌었는지, 글씨가 얼마나 읽히는지 정리했어요.</small><span class="meta">업데이트 2026년 10월 30일 · 4 분 분량</span></a>
+          <a class="guide-card" href="/ko/guides/pdf-size-test.html"><b>스캔 PDF 하나를 50KB·100KB·200KB·300KB·500KB·1MB·2MB로 줄여 봤어요: 용량마다 이렇게 달라요</b><small>휴대폰으로 스캔한 3쪽 PDF(3.61MB) 하나를 같은 도구로 일곱 가지 용량에 맞춰 봤어요. 50KB, 100KB, 200KB, 300KB, 500KB, 1MB, 2MB에서 결과 용량과 쪽이 어떻게 바뀌었는지, 글씨가 얼마나 읽히는지 정리했어요.</small><span class="meta">업데이트 2026년 11월 1일 · 4 분 분량</span></a>
           <a class="guide-card" href="/ko/guides/gov24-pdf-save.html"><b>정부24 서류 PDF로 저장하기: 전자증명서 받는 법, 암호 6자리·진본 표시·합치기 주의</b><small>주민등록등본·졸업증명서 같은 정부24 서류를 PDF 파일로 받아 제출하는 방법이에요. 전자문서지갑 전자증명서로 받는 순서, 다운로드할 때 정하는 6자리 암호, '진본'과 '미검증' 표시의 차이, PC 인쇄 화면에서 PDF로 저장할 때 막히는 경우, 합치거나 줄이기 전에 알아둘 점을 공식 안내 기준으로 정리했어요.</small><span class="meta">업데이트 2026년 10월 29일 · 5 분 분량</span></a>
           <a class="guide-card" href="/ko/guides/india-visa-photo.html"><b>인도 비자 사진 규격 2026: e-비자 정사각형 JPG 10KB~1MB, 여권 정보면 PDF 300KB</b><small>인도 e-비자는 얼굴 사진(JPG, 10KB~1MB, 가로세로가 같은 정사각형, 최소 350×350픽셀)과 여권 정보면(PDF, 10KB~300KB)을 올려요. 인도 정부 e-비자 사이트의 안내와 업로드 화면 기준으로 규격, 오류 메시지 3가지의 뜻, 1MB를 1,000,000바이트로 세는 점, 한국 여권 수수료와 신청 시기까지 정리했어요.</small><span class="meta">업데이트 2026년 10월 29일 · 6 분 분량</span></a>
           <a class="guide-card" href="/ko/guides/mobile-id-photo.html"><b>모바일 신분증 사진 바꾸는 법: 주민등록증 재발급 사진 규격과 정부24 업로드 (2026)</b><small>모바일 주민등록증은 실물 주민등록증 사진을 그대로 보여 줘서, 사진을 바꾸려면 주민등록증부터 다시 발급받아야 해요. 정부24 온라인 재발급(용모 변경)에 올리는 사진 규격, 수수료·처리 기간, 모바일 신분증 다시 발급 방법, 얼굴 인증이 안 될 때 확인할 것, 모바일 운전면허증 사진 변경까지 법령과 공식 안내 기준으로 정리했어요.</small><span class="meta">업데이트 2026년 10월 29일 · 6 분 분량</span></a>

diff --git a/public/ko/about.html b/public/ko/about.html
@@ -54,6 +54,7 @@
 
       <h3>업데이트 기록</h3>
       <ul>
+          <li><b>2026년 11월 1일</b> — <a href="/ko/compress-pdf-to-500kb.html">PDF 용량 맞추기</a>가 한도에 여유가 있으면 화질을 더 살려요. 1MB보다 작은 목표에서는 서버가 바로 72dpi로 줄여서, 150dpi가 들어가는 스캔도 작은 글씨가 뭉개졌어요. 1MB 이상에서는 더 낮은 해상도를 해 보지 않고 쪽을 이미지로 바꾸는 일이 있었어요. 이제는 그 전에 150, 120, 100dpi를 차례로 해 봐요. 같은 3쪽 스캔이 500KB에서 477.8KB, 1MB에서 770.1KB가 되고, 둘 다 쪽을 그대로 둬요(<a href="/ko/guides/pdf-size-test.html">용량별 비교 가이드</a>도 고쳤어요).</li>
           <li><b>2026년 10월 30일</b> — 가상의 3쪽 스캔(3.61MB) 하나를 모든 <a href="/ko/compress-pdf-to-100kb.html">PDF 용량 맞추기</a> 페이지에 넣어 보고, 용량마다 실제로 어떻게 되는지 적었어요. 결과 용량, 쪽을 그대로 뒀는지 이미지로 바꿨는지, 글씨가 얼마나 읽히는지예요. 각 페이지에 그 용량의 결과를 넣었고, 그림과 함께 한꺼번에 비교한 내용은 새 가이드 <a href="/ko/guides/pdf-size-test.html">스캔 PDF를 50KB·100KB·200KB·300KB·500KB·1MB·2MB로 줄여 봤어요</a>에 있어요.</li>
           <li><b>2026년 10월 29일</b> — 이제 모든 사진 도구(사진 용량 줄이기, 증명사진, 미국 비자 사진, 서명 이미지, PDF 서명, JPG → PDF)에서 아이폰 HEIC 사진이 열려요. 사파리뿐 아니라 크롬, 엣지, 파이어폭스에서도 돼요. 새 도구 <a href="/ko/heic-to-jpg.html">HEIC → JPG 변환</a>은 HEIC 사진을 한 장이든 여러 장이든 JPG로 바꾸고, 필요하면 용량 제한도 맞춰요. 모두 브라우저 안에서 처리돼요.</li>
           <li><b>2026년 10월 27일</b> — 발급받은 증명서처럼 잠긴 PDF를 손봤어요. 열 때 암호가 필요한 PDF를 압축하면 예전엔 빈 페이지 하나짜리 파일이 '크게 줄었다'고 나왔는데, 이제 암호가 필요하다고 알려 줘요. 합치기·나누기·회전·쪽번호·워터마크·페이지 삭제·정리에서 암호나 편집 제한이 걸린 PDF를 올리면 알아보기 어려운 영어 오류 대신 한국어로 이유를 알려 주고, 그 파일 때문에 하루 무료 횟수가 줄지 않아요. 합치기에서 쓸 수 없는 파일이 하나 섞여 있어도 나머지 파일은 목록에 들어가요. 압축 서버는 40MB가 넘는 큰 파일도 훨씬 적은 메모리로 받아서, 처리 중에 서버가 다시 시작되며 브라우저 압축으로 넘어가는 일이 없어졌어요.</li>

diff --git a/public/guides/index.html b/public/guides/index.html
@@ -99,7 +99,7 @@
       <h1>Guides</h1>
       <p class="lead">Practical, sourced answers for the size rules on application forms: photos, signatures and PDFs.</p>
       <div class="guide-list">
-          <a class="guide-card" href="/guides/pdf-size-test.html"><b>We compressed one scanned PDF to 50KB, 100KB, 200KB, 300KB, 500KB, 1MB and 2MB: what each size does</b><small>One 3-page phone-scan PDF (3.61 MB) run through seven size limits with the same tool. The result size, how the pages were rebuilt, and how readable the text stayed at 50KB, 100KB, 200KB, 300KB, 500KB, 1MB and 2MB.</small><span class="meta">Updated October 30, 2026 · 4 min read</span></a>
+          <a class="guide-card" href="/guides/pdf-size-test.html"><b>We compressed one scanned PDF to 50KB, 100KB, 200KB, 300KB, 500KB, 1MB and 2MB: what each size does</b><small>One 3-page phone-scan PDF (3.61 MB) run through seven size limits with the same tool. The result size, how the pages were rebuilt, and how readable the text stayed at 50KB, 100KB, 200KB, 300KB, 500KB, 1MB and 2MB.</small><span class="meta">Updated November 1, 2026 · 4 min read</span></a>
           <a class="guide-card" href="/guides/india-e-visa-photo-requirements.html"><b>Indian e-Visa photo requirements: a square JPEG of 10KB–1MB, and the passport page as a PDF under 300KB</b><small>The Indian e-Visa form takes two uploads: a square JPEG photo of 10KB–1MB (at least 350 × 350 pixels) and your passport bio page as a PDF of 10KB–300KB. The official rules in one place, what the three upload error messages mean, why 1MB means 1,000,000 bytes, and how to make both files from phone photos.</small><span class="meta">Updated October 29, 2026 · 5 min read</span></a>
           <a class="guide-card" href="/guides/ssc-signature-photo-size.html"><b>SSC signature and photo upload 2026: the 10–20KB rule, the 80% rule and why forms get rejected</b><small>SSC asks for a 10–20KB JPEG signature of about 6.0 × 2.0 cm and a live photograph. What the 2026 notices say, what SSC's own instruction sheet lists as rejection reasons, and how to make a signature that passes.</small><span class="meta">Updated October 28, 2026 · 5 min read</span></a>
           <a class="guide-card" href="/guides/ugc-net-photo-signature-size.html"><b>UGC NET December 2026 photo and signature size: what the bulletin asks for</b><small>The UGC-NET December 2026 bulletin asks for a live photograph, a 10–200KB photo with 80% face and ears visible, and a 10–50KB signature — not the old 4–30KB. Dates, rejection reasons and a free tool for each file.</small><span class="meta">Updated October 13, 2026 · 5 min read</span></a>

diff --git a/public/about.html b/public/about.html
@@ -54,6 +54,7 @@
 
       <h3>What's new</h3>
       <ul>
+          <li><b>November 1, 2026</b> — <a href="/compress-pdf-to-500kb.html">Compress PDF to a size</a> keeps more detail when the limit has room. Below 1MB the server used to go straight to 72 dpi, which smudged a scan's small print even when 150 dpi fit; at 1MB and up it sometimes turned pages into images without trying a lower resolution first. It now tries 150, 120 and 100 dpi before either. The same 3-page scan now gives 477.8 KB at 500KB and 770.1 KB at 1MB, both with the pages kept (<a href="/guides/pdf-size-test.html">the size test</a> is updated).</li>
           <li><b>October 30, 2026</b> — We ran one made-up 3-page scan (3.61 MB) through every <a href="/compress-pdf-to-100kb.html">Compress PDF to a size</a> page and wrote down what each size really does: the result size, whether the pages were kept or turned into images, and how readable the text stayed. Each page now shows its own result, and the full comparison with a picture is in a new guide, <a href="/guides/pdf-size-test.html">what 50KB, 100KB, 200KB, 300KB, 500KB, 1MB and 2MB do to a scanned PDF</a>.</li>
           <li><b>October 29, 2026</b> — iPhone HEIC photos now open in every photo tool (Compress Image, ID Photo, US Visa Photo, Signature Image, Sign PDF, JPG to PDF), in Chrome, Edge and Firefox too, not only in Safari. New tool: <a href="/heic-to-jpg.html">HEIC to JPG</a> turns one HEIC photo or a whole batch into JPG files, with an optional size limit, right in your browser.</li>
           <li><b>October 27, 2026</b> — PDFs that come locked, as many issued certificates do: a PDF that needs a password to open used to come back from Compress PDF as a blank page reported as a big saving; now it says the PDF needs its password. Merge, split, rotate, page numbers, watermark, remove pages and organize now explain that a locked PDF can't be changed here, instead of showing a technical error, and such a file no longer uses up one of the day's free operations. In Merge, one file that can't be used no longer stops the rest of your pick from being added. The compression server also handles big uploads (40MB and up) with much less memory, so it no longer restarts mid-request and hands the file to your browser.</li>

diff --git a/public/ko/compress-pdf-to-1mb.html b/public/ko/compress-pdf-to-1mb.html
@@ -240,8 +240,8 @@
 <!-- measured:start -->
 <div class="content measured">
       <h2>직접 돌려 봤어요: 1MB로 줄이면 3쪽 스캔이 어떻게 되나</h2>
-      <p>2026년 10월 30일에 가상의 3쪽 스캔(3.61MB) 하나를 모든 크기 페이지에 넣어 봤어요. 1MB에서는 <b>751.6KB</b>로 줄었어요: 쪽을 이미지로 바꿈, 약 108dpi. 글씨 상태: 읽을 수 있지만 가장자리가 거침.</p>
-      <p>1MB에서는 이 파일이 다른 방법을 탔어요. 쪽을 약 108dpi 이미지로 바꿔서 751.6KB가 됐고, 글씨는 읽히지만 500KB 결과보다 가장자리가 조금 거칠어요. 내 파일은 어느 쪽이 될지 달라서, 어떤 방법이 쓰였는지는 결과 상자에 표시돼요.</p>
+      <p>2026년 10월 30일에 가상의 3쪽 스캔(3.61MB) 하나를 모든 크기 페이지에 넣어 봤고, 도구를 고친 뒤 2026년 11월 1일에 이 페이지에 다시 넣었어요. 1MB에서는 이제 <b>770.1KB</b>로 줄어요: 쪽은 그대로, 안의 그림만 120dpi로 다시 압축. 글씨 상태: 아주 선명.</p>
+      <p>1MB에서는 쪽을 그대로 두고 안의 그림만 120dpi로 줄여서 770.1KB가 됐고, 500KB 결과보다 조금 더 또렷해요. 11월 1일 전에는 첫 단계에서 이 파일의 200dpi 그림이 그대로 남아 너무 컸고, 더 낮은 해상도를 해 보지 않고 쪽을 약 108dpi 이미지로 바꿔서 751.6KB가 됐어요.</p>
       <p>일곱 가지 용량을 그림과 함께 나란히 보려면: <a href="/ko/guides/pdf-size-test.html">스캔 PDF 하나를 50KB·100KB·200KB·300KB·500KB·1MB·2MB로 줄여 봤어요</a>.</p>
 </div>
 <!-- measured:end -->

diff --git a/public/ko/compress-pdf-to-500kb.html b/public/ko/compress-pdf-to-500kb.html
@@ -240,8 +240,8 @@
 <!-- measured:start -->
 <div class="content measured">
       <h2>직접 돌려 봤어요: 500KB로 줄이면 3쪽 스캔이 어떻게 되나</h2>
-      <p>2026년 10월 30일에 가상의 3쪽 스캔(3.61MB) 하나를 모든 크기 페이지에 넣어 봤어요. 500KB에서는 <b>340.1KB</b>로 줄었어요: 쪽은 그대로, 안의 그림만 다시 압축. 글씨 상태: 아주 선명.</p>
-      <p>500KB에서는 결과가 340.1KB밖에 안 됐어요. 쪽은 그대로 두고 안의 그림만 다시 압축해서 해상도가 낮은 이미지로 바꾸지 않았고, 300KB 결과보다 오히려 선명해요. 쪽을 새로 만들지 않고도 들어가면 그렇게 해요.</p>
+      <p>2026년 10월 30일에 가상의 3쪽 스캔(3.61MB) 하나를 모든 크기 페이지에 넣어 봤고, 도구를 고친 뒤 2026년 11월 1일에 이 페이지에 다시 넣었어요. 500KB에서는 이제 <b>477.8KB</b>로 줄어요: 쪽은 그대로, 안의 그림만 100dpi로 다시 압축. 글씨 상태: 아주 선명.</p>
+      <p>500KB에서는 477.8KB가 됐어요. 쪽은 그대로 두고 안의 그림만 100dpi로 줄여서 이미지로 바꾼 쪽이 없고, 300KB 결과보다 글씨가 깔끔해요. 11월 1일 전에는 여기서 바로 72dpi로 줄여서(340.1KB), 100dpi가 들어가는데도 글자 가장자리가 계단처럼 거칠었어요.</p>
       <p>일곱 가지 용량을 그림과 함께 나란히 보려면: <a href="/ko/guides/pdf-size-test.html">스캔 PDF 하나를 50KB·100KB·200KB·300KB·500KB·1MB·2MB로 줄여 봤어요</a>.</p>
 </div>
 <!-- measured:end -->

diff --git a/public/compress-pdf-to-1mb.html b/public/compress-pdf-to-1mb.html
@@ -235,8 +235,8 @@
 <!-- measured:start -->
 <div class="content measured">
       <h2>We tested it: what 1MB did to a 3-page scan</h2>
-      <p>On 30 October 2026 we ran one made-up 3-page scan (3.61 MB) through every size page. At 1MB it came out at <b>751.6KB</b>: pages turned into images, about 108 dpi. Text: readable, slightly rough.</p>
-      <p>At 1MB this file took the other route: the pages were turned into images at about 108 dpi, giving 751.6KB. The text stayed readable, though it is a little rougher than the 500KB result. Your own file may go either way, and the result box tells you which one happened.</p>
+      <p>We ran one made-up 3-page scan (3.61 MB) through every size page on 30 October 2026, and through this one again on 1 November 2026 after a change to the tool. At 1MB it now comes out at <b>770.1KB</b>: pages kept, pictures recompressed at 120 dpi. Text: sharp.</p>
+      <p>At 1MB the pages were kept and the pictures brought down to 120 dpi: 770.1KB, a little crisper than the 500KB result. Until 1 November this file took the other route here: the first step left its 200 dpi pictures too big, and SlimIO turned the pages into images at about 108 dpi (751.6KB) instead of trying a lower resolution first.</p>
       <p>See all seven sizes side by side, with a picture of each: <a href="/guides/pdf-size-test.html">We compressed one scanned PDF to 50KB, 100KB, 200KB, 300KB, 500KB, 1MB and 2MB</a>.</p>
 </div>
 <!-- measured:end -->

diff --git a/public/compress-pdf-to-500kb.html b/public/compress-pdf-to-500kb.html
@@ -235,8 +235,8 @@
 <!-- measured:start -->
 <div class="content measured">
       <h2>We tested it: what 500KB did to a 3-page scan</h2>
-      <p>On 30 October 2026 we ran one made-up 3-page scan (3.61 MB) through every size page. At 500KB it came out at <b>340.1KB</b>: pages kept, pictures recompressed. Text: sharp.</p>
-      <p>At 500KB the result was only 340.1KB. SlimIO kept the three pages as they are and recompressed the pictures inside, so nothing was turned into a lower-resolution image, and it came out sharper than the 300KB result. When the pages fit without being rebuilt, SlimIO leaves them alone.</p>
+      <p>We ran one made-up 3-page scan (3.61 MB) through every size page on 30 October 2026, and through this one again on 1 November 2026 after a change to the tool. At 500KB it now comes out at <b>477.8KB</b>: pages kept, pictures recompressed at 100 dpi. Text: sharp.</p>
+      <p>At 500KB the result was 477.8KB. SlimIO kept the three pages as they are and brought the pictures inside down to 100 dpi, so no page was turned into an image, and the text is cleaner than in the 300KB result. Until 1 November SlimIO went straight to 72 dpi here (340.1KB), which left the letters with blocky edges although 100 dpi fit.</p>
       <p>See all seven sizes side by side, with a picture of each: <a href="/guides/pdf-size-test.html">We compressed one scanned PDF to 50KB, 100KB, 200KB, 300KB, 500KB, 1MB and 2MB</a>.</p>
 </div>
 <!-- measured:end -->
